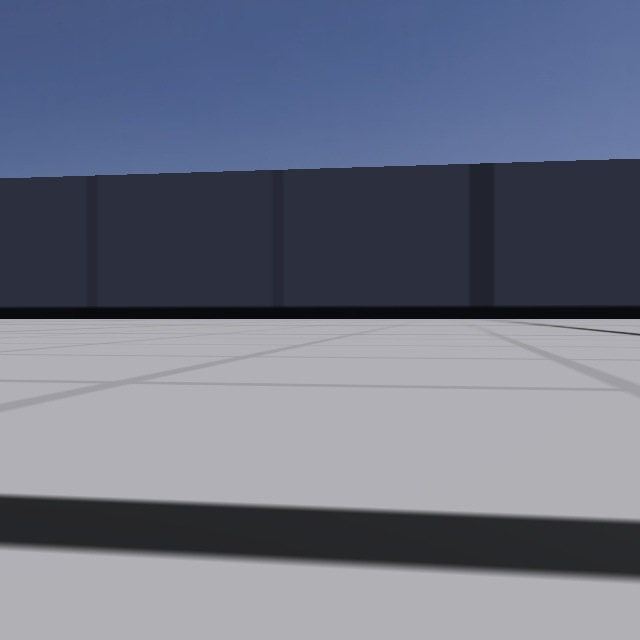
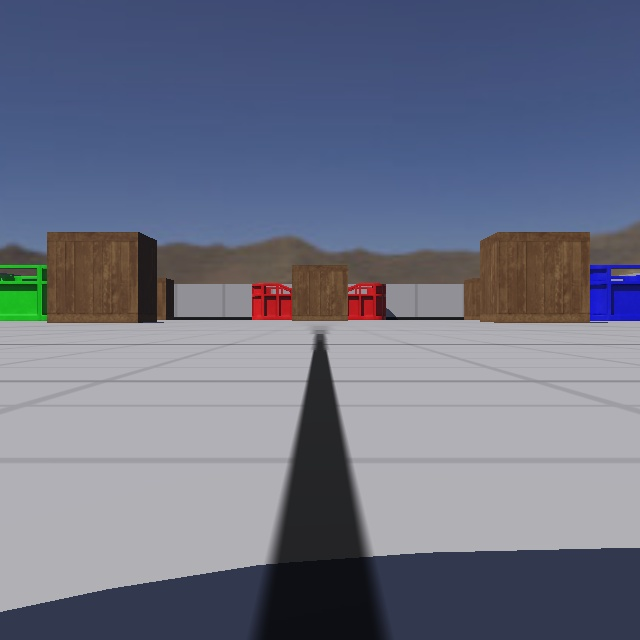
add

diff --git a/projeto/controllers/youbot/youbot.py b/projeto/controllers/youbot/youbot.py
@@ -41,7 +41,7 @@ class YouBotController:
         self.turn_speed = 0.5
 
         # Distâncias de parada diferentes
-        self.distancia_parar_cubo = 0.12
+        self.distancia_parar_cubo = 0.11
         self.distancia_parar_caixa = 0.30  # Caixa precisa de mais espaço
 
         self.VEL_MAX = 0.5
